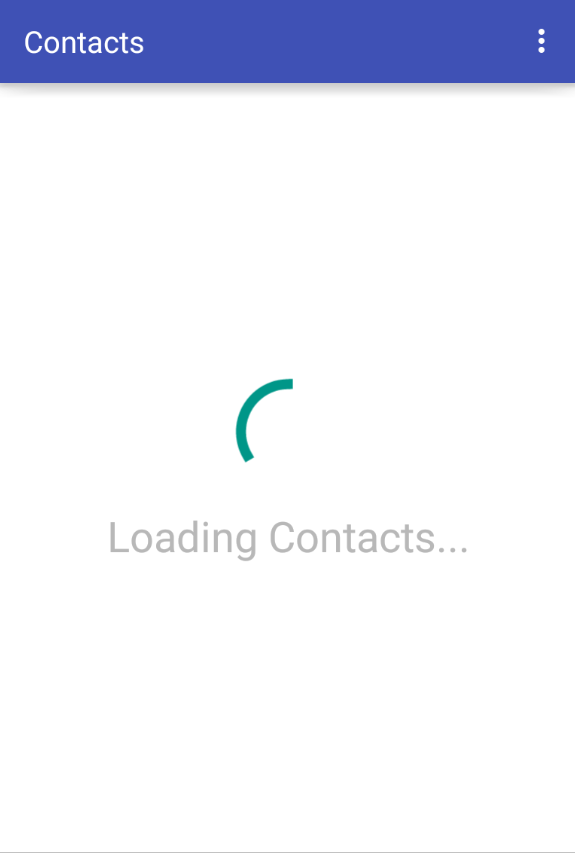
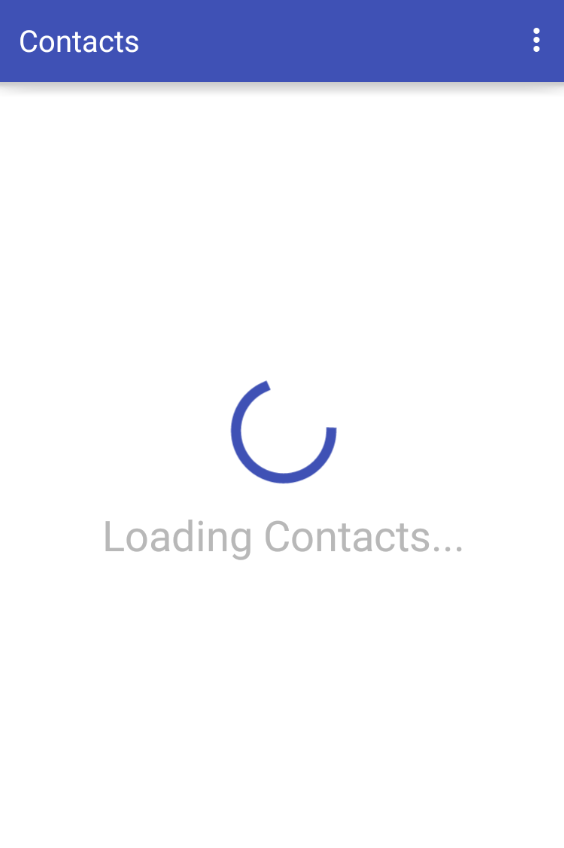
new progressbar

diff --git a/app/src/main/java/com/orionhealth/contacts/UserListActivity.java b/app/src/main/java/com/orionhealth/contacts/UserListActivity.java
@@ -1,7 +1,9 @@
 package com.orionhealth.contacts;
 
 import android.content.Intent;
+import android.graphics.PorterDuff;
 import android.os.Bundle;
+import android.support.v4.content.ContextCompat;
 import android.view.Menu;
 import android.view.MenuItem;
 import android.widget.LinearLayout;
@@ -54,6 +56,8 @@ public class UserListActivity extends BaseActivity implements UserListView {
 
 
         mProgressBar.setIndeterminate(true);
+        mProgressBar.getIndeterminateDrawable()
+                .setColorFilter(getResources().getColor(R.color.color_blue), PorterDuff.Mode.SRC_IN);
     }
 
 
